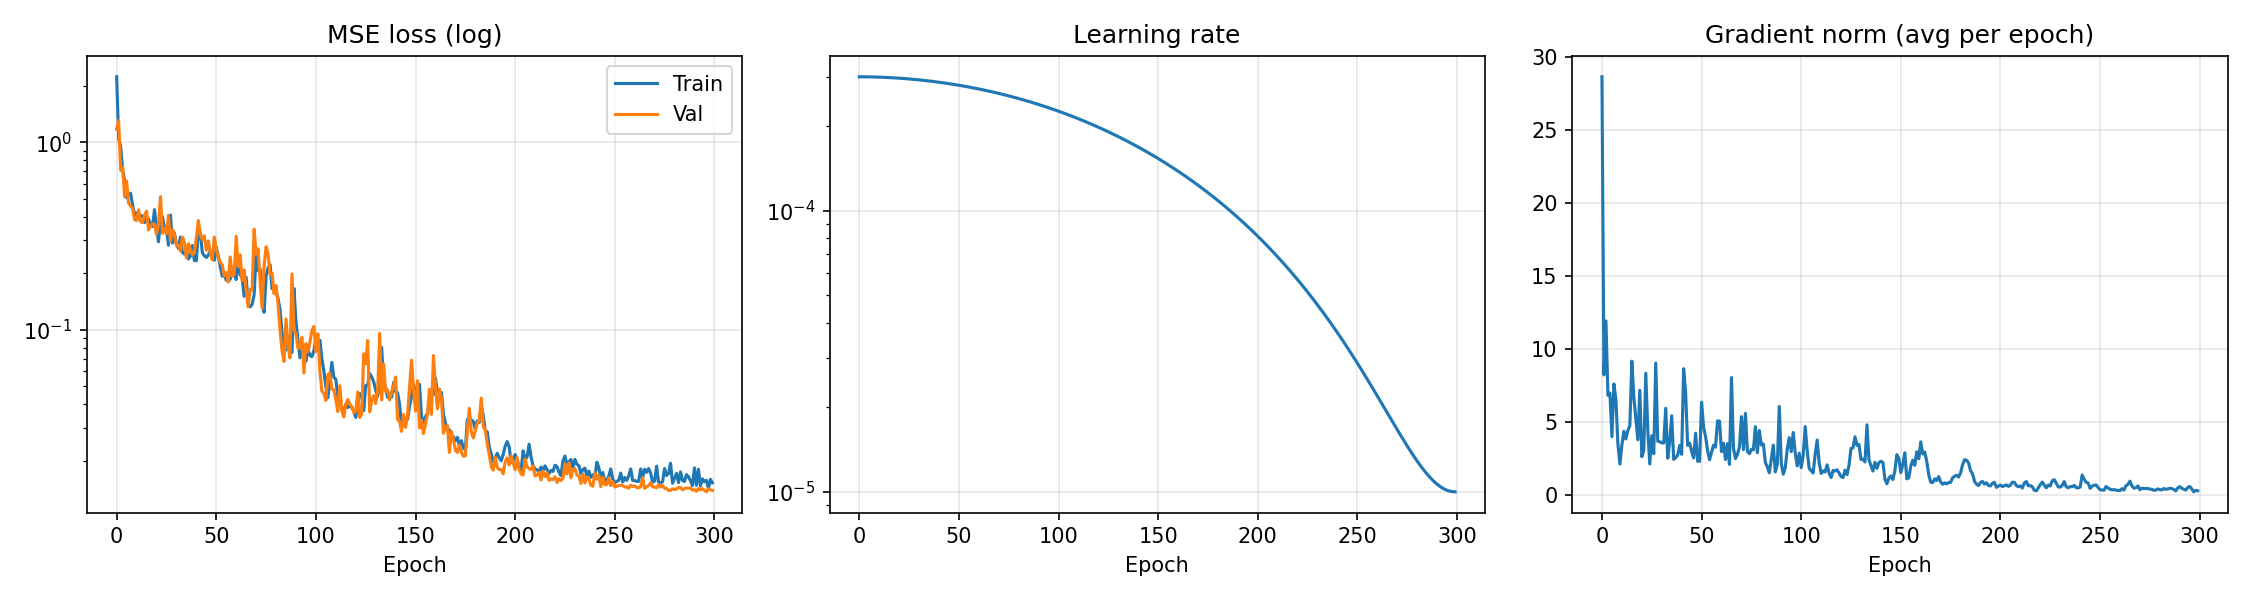
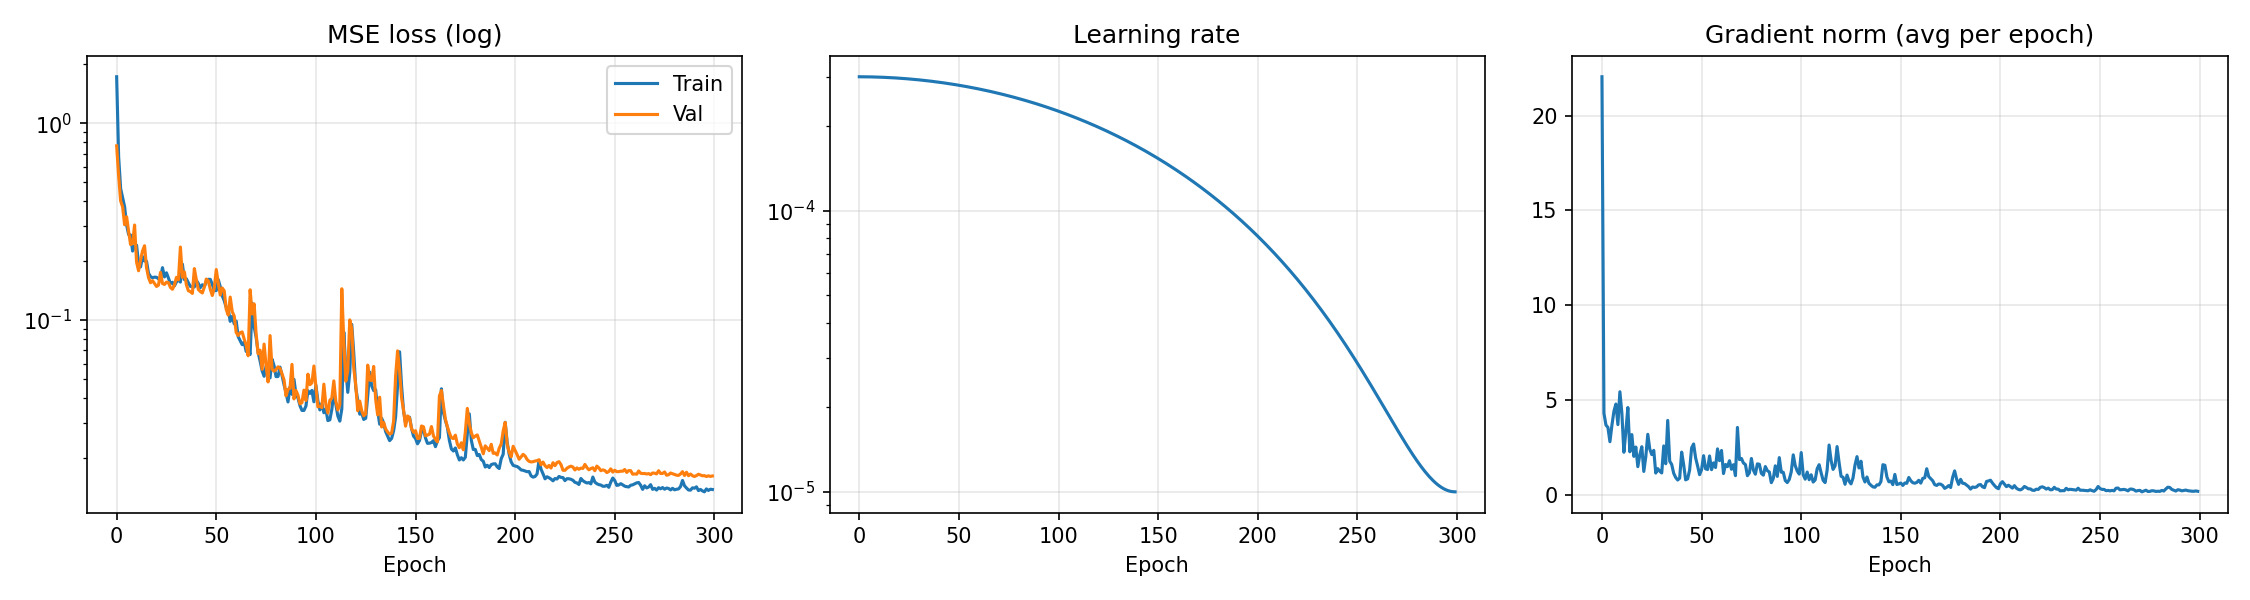
bigger parts, static origin

diff --git a/world_model/visualize.py b/world_model/visualize.py
@@ -21,6 +21,7 @@ import random
 import matplotlib.pyplot as plt
 import matplotlib.animation as animation
 import matplotlib.patches as mpatches
+import math
 import numpy as np
 import torch
 from torch.utils.data import random_split
@@ -34,7 +35,7 @@ from .train import DEFAULTS, get_device
 
 
 # ── cinématique directe ────────────────────────────────────────────────────────
-L1, L2 = 1.0, 1.0
+L1, L2 = math.sqrt(2), math.sqrt(2)   # portée totale 2√2, atteint le coin (2,2)
 
 def fk(q: np.ndarray) -> tuple[np.ndarray, np.ndarray, np.ndarray]:
     base  = np.zeros((len(q), 2))
@@ -85,6 +86,27 @@ def _get_split(save_dir, split, device):
     train_ds, val_ds = random_split(full_ds, [n_train, n_val], generator=g)
     subset  = {"val": val_ds, "train": train_ds}.get(split, full_ds)
     return model, norm, H, full_ds, subset
+
+
+def _compute_loss_distribution(model, norm, H, full_ds, subset, device):
+    """Calcule la MSE loss (sur q) pour chaque épisode du subset.
+    Retourne un tableau numpy de shape (n_ep,)."""
+    losses = []
+    n_ep = len(subset)
+    print(f"Calcul de la distribution des losses sur {n_ep} épisodes...")
+    for ep_idx in range(n_ep):
+        try:
+            pred, tgt, _, seq_len, q_col, _ = _run_inference(
+                model, norm, H, full_ds, subset, ep_idx, device)
+            mse = float(np.mean((pred[:seq_len, q_col:q_col+2]
+                                 - tgt[:seq_len, q_col:q_col+2]) ** 2))
+        except Exception:
+            mse = float("nan")
+        losses.append(mse)
+        if (ep_idx + 1) % max(1, n_ep // 10) == 0:
+            print(f"  {ep_idx + 1}/{n_ep}")
+    print("Distribution calculée.")
+    return np.array(losses)
 
 
 def _run_inference(model, norm, H, full_ds, subset, ep_idx, device):
@@ -143,6 +165,9 @@ def browse(save_dir="world_model/checkpoints", split="val", step=1):
     model, norm, H, full_ds, subset = _get_split(save_dir, split, device)
     n_ep   = len(subset)
 
+    # ── calcul distribution des losses ───────────────────────────────────────
+    all_losses = _compute_loss_distribution(model, norm, H, full_ds, subset, device)
+
     _UNITS = {"q_real":"rad","q_des":"rad","q_sensed":"rad",
               "dq_real":"rad/s","dq_des":"rad/s","dq_sensed":"rad/s",
               "tau":"N·m","is_cutting":"prob"}
@@ -154,18 +179,44 @@ def browse(save_dir="world_model/checkpoints", split="val", step=1):
              elbow_t=None, elbow_p=None, tip_t=None, tip_p=None)
 
     # ── figure & axes ─────────────────────────────────────────────────────────
-    fig = plt.figure(figsize=(16, 10))
-    gs  = fig.add_gridspec(4, 2, left=0.05, right=0.97,
-                           top=0.92, bottom=0.23, hspace=0.55, wspace=0.30)
+    fig = plt.figure(figsize=(18, 10))
+    gs  = fig.add_gridspec(4, 3, left=0.05, right=0.97,
+                           top=0.92, bottom=0.23, hspace=0.55, wspace=0.35)
     ax_arm      = fig.add_subplot(gs[:, 0])
     metric_axes = [fig.add_subplot(gs[i, 1]) for i in range(4)]
+    ax_dist     = fig.add_subplot(gs[:2, 2])   # histogramme distribution (moitié haute)
+    ax_rank     = fig.add_subplot(gs[2:, 2])   # rang / percentile (moitié basse)
+
+    # ── histogramme de distribution des losses ────────────────────────────────
+    valid_losses = all_losses[~np.isnan(all_losses)]
+    ax_dist.hist(valid_losses, bins=40, color="steelblue", alpha=0.75, edgecolor="white", lw=0.4)
+    ax_dist.set_title("Distribution des losses (MSE q)", fontsize=9)
+    ax_dist.set_xlabel("MSE", fontsize=8)
+    ax_dist.set_ylabel("# épisodes", fontsize=8)
+    ax_dist.grid(True, alpha=0.25)
+    loss_marker_v  = ax_dist.axvline(np.nan, color="tomato", lw=2, ls="--", label="pièce courante")
+    loss_marker_tx = ax_dist.text(0.98, 0.95, "", transform=ax_dist.transAxes,
+                                  fontsize=8, ha="right", va="top",
+                                  color="tomato", fontweight="bold")
+    ax_dist.legend(fontsize=7, loc="upper left")
+
+    # ── graphe rang trié (toutes les losses) ──────────────────────────────────
+    sorted_idx  = np.argsort(valid_losses)
+    ax_rank.plot(np.arange(len(valid_losses)), valid_losses[sorted_idx],
+                 color="steelblue", lw=1.2)
+    ax_rank.set_title("Losses triées", fontsize=9)
+    ax_rank.set_xlabel("Rang", fontsize=8)
+    ax_rank.set_ylabel("MSE", fontsize=8)
+    ax_rank.grid(True, alpha=0.25)
+    rank_marker_h = ax_rank.axhline(np.nan, color="tomato", lw=1.5, ls="--")
+    rank_marker_pt, = ax_rank.plot([], [], "o", color="tomato", ms=7, zorder=5)
 
     # Axes widgets
-    ax_sl_ep  = fig.add_axes([0.07, 0.13, 0.60, 0.03])
-    ax_sl_t   = fig.add_axes([0.07, 0.07, 0.60, 0.03])
-    ax_btn_pp = fig.add_axes([0.70, 0.06, 0.07, 0.07])
-    ax_btn_prv= fig.add_axes([0.79, 0.06, 0.07, 0.07])
-    ax_btn_nxt= fig.add_axes([0.88, 0.06, 0.07, 0.07])
+    ax_sl_ep  = fig.add_axes([0.05, 0.13, 0.60, 0.03])
+    ax_sl_t   = fig.add_axes([0.05, 0.07, 0.60, 0.03])
+    ax_btn_pp = fig.add_axes([0.68, 0.06, 0.07, 0.07])
+    ax_btn_prv= fig.add_axes([0.77, 0.06, 0.07, 0.07])
+    ax_btn_nxt= fig.add_axes([0.86, 0.06, 0.07, 0.07])
 
     sl_ep   = mwidgets.Slider(ax_sl_ep,  "Pièce", 0, max(1, n_ep - 1),
                               valinit=0, valstep=1)
@@ -178,9 +229,9 @@ def browse(save_dir="world_model/checkpoints", split="val", step=1):
     title_text = fig.suptitle("", fontsize=11)
 
     # ── bras : artists statiques & animés ─────────────────────────────────────
-    arm_lim = L1 + L2 + 0.15
-    ax_arm.set_xlim(-arm_lim, arm_lim)
-    ax_arm.set_ylim(-arm_lim, arm_lim)
+    arm_lim = L1 + L2 + 0.2
+    ax_arm.set_xlim(-0.3, arm_lim)
+    ax_arm.set_ylim(-0.3, arm_lim)
     ax_arm.set_aspect("equal")
     ax_arm.set_xlabel("x [m]"); ax_arm.set_ylabel("y [m]")
     ax_arm.axhline(0, color="gray", lw=0.5)
@@ -308,6 +359,18 @@ def browse(save_dir="world_model/checkpoints", split="val", step=1):
             f"World model — [{split}]  pièce {ep} / {n_ep - 1}  "
             f"({S['seq_len']} pas,  shape → trajectoire complète)")
 
+        # ── mise à jour distribution ──────────────────────────────────────────
+        ep_loss = all_losses[ep]
+        loss_marker_v.set_xdata([ep_loss, ep_loss])
+        valid_mask = ~np.isnan(all_losses)
+        percentile = float(np.mean(all_losses[valid_mask] <= ep_loss) * 100)
+        rank_in_sorted = int(np.sum(valid_losses <= ep_loss))
+        loss_marker_tx.set_text(
+            f"MSE={ep_loss:.4f}\nPercentile {percentile:.0f}%")
+        rank_marker_h.set_ydata([ep_loss, ep_loss])
+        rank_marker_pt.set_data([rank_in_sorted], [ep_loss])
+        ax_dist.figure.canvas.draw_idle()
+
         _refresh_static()
         _rebuild_metrics()
         _draw_frame(0)
@@ -389,8 +452,8 @@ def animate(episode_idx=None, save_dir="world_model/checkpoints",
 
     t_axis = np.arange(seq_len) * 0.01
 
-    arm_lim = L1 + L2 + 0.15
-    ax_arm.set_xlim(-arm_lim, arm_lim); ax_arm.set_ylim(-arm_lim, arm_lim)
+    arm_lim = L1 + L2 + 0.2
+    ax_arm.set_xlim(-0.3, arm_lim); ax_arm.set_ylim(-0.3, arm_lim)
     ax_arm.set_aspect("equal")
     ax_arm.set_title("Bras 2-DOF")
     ax_arm.set_xlabel("x [m]"); ax_arm.set_ylabel("y [m]")

diff --git a/piece.py b/piece.py
@@ -3,8 +3,12 @@ import random
 import math
 import json
 
-# Portée max du bras (L1+L2=2.0) moins marge de sécurité
-_MAX_REACH = 1.85
+# Portée max du bras (L1+L2 = 2√2 ≈ 2.83)
+_MAX_REACH = 2 * math.sqrt(2) - 0.05   # marge de sécurité
+
+# Carré de travail : les pièces doivent rester dans [0.1, 1.9]²
+_XMIN, _XMAX = 0.1, 1.9
+_YMIN, _YMAX = 0.1, 1.9
 
 
 # ── utilitaires géométriques ──────────────────────────────────────────────────
@@ -15,11 +19,20 @@ def _rotate(pts, angle):
 
 
 def _clamp_to_workspace(pts, bx, by):
-    """Réduit les coords locales si un coin dépasse _MAX_REACH depuis l'origine."""
-    worst = max(math.hypot(bx + x, by + y) for x, y in pts)
-    if worst > _MAX_REACH:
-        f = (_MAX_REACH - math.hypot(bx, by)) / (worst - math.hypot(bx, by))
-        f = max(0.05, min(f, 1.0))
+    """Réduit les coords locales si un sommet sort du carré [_XMIN,_XMAX]x[_YMIN,_YMAX]."""
+    worlds = [(bx + x, by + y) for x, y in pts]
+    # dépassement dans chaque direction
+    ox = max(0, max(wx - _XMAX for wx, _ in worlds),
+                  max(_XMIN - wx for wx, _ in worlds))
+    oy = max(0, max(wy - _YMAX for _, wy in worlds),
+                  max(_YMIN - wy for _, wy in worlds))
+    if ox > 0 or oy > 0:
+        # facteur de réduction conservatif
+        ext_x = max(abs(x) for x, y in pts) or 1e-9
+        ext_y = max(abs(y) for x, y in pts) or 1e-9
+        fx = max(0.05, (ext_x - ox) / ext_x) if ox > 0 else 1.0
+        fy = max(0.05, (ext_y - oy) / ext_y) if oy > 0 else 1.0
+        f  = min(fx, fy)
         pts = [(x * f, y * f) for x, y in pts]
     return pts
 
@@ -322,16 +335,16 @@ def generate_shape_database(num_shapes=100):
     db = []
 
     for _ in range(num_shapes):
-        # ── position du centre ───────────────────────────────────────────────
-        # Espace de travail élargi : x∈[0.25, 1.60], y∈[−0.70, 0.45]
-        for _ in range(20):   # ré-essai si trop loin de l'origine
-            base_x = random.uniform(0.25, 1.60)
-            base_y = random.uniform(-0.70, 0.45)
-            if math.hypot(base_x, base_y) < 1.60:
+        # ── position du centre ─────────────────────────────────────────────────
+        # Centre dans [0.5, 1.5]² pour laisser de la marge aux bords du carré
+        for _ in range(20):
+            base_x = random.uniform(0.5, 1.5)
+            base_y = random.uniform(0.5, 1.5)
+            if math.hypot(base_x, base_y) < _MAX_REACH:
                 break
 
-        # ── scale de base ────────────────────────────────────────────────────
-        scale = random.uniform(0.15, 0.90)
+        # ── scale de base (pièces larges ~50cm–1m, clampées dans [0.1,1.9]²) ──────
+        scale = random.uniform(0.50, 0.80)
 
         # ── choix et génération de la forme ──────────────────────────────────
         shape_type = random.choice(_SHAPE_NAMES)
@@ -346,26 +359,29 @@ def generate_shape_database(num_shapes=100):
 
         # Cisaillement
         if random.random() < 0.25:
-            shear = random.uniform(-0.30, 0.30)
+            shear = random.uniform(-0.15, 0.15)
             pts = [(x + shear * y, y) for x, y in pts]
 
         # Bruit sommet (imperfections de conception)
-        noise = random.uniform(0.0, 0.12) * scale
+        noise = random.uniform(0.0, 0.08) * scale
         pts = [(x + random.uniform(-noise, noise),
                 y + random.uniform(-noise, noise)) for x, y in pts]
 
         # ── rotation aléatoire ────────────────────────────────────────────────
         pts = _rotate(pts, random.uniform(0, 2*math.pi))
 
-        # ── contrainte workspace ──────────────────────────────────────────────
+        # ── contrainte workspace (carré [0.1, 1.9]²) ───────────────────────────
         pts = _clamp_to_workspace(pts, base_x, base_y)
 
-        # ── hauteur d'approche dynamique ──────────────────────────────────────
-        world_ys = [base_y + y for _, y in pts]
-        approach_y = max(max(world_ys) + 0.25, 0.70)
 
-        # ── construction du chemin ────────────────────────────────────────────
-        path = [(0.4, approach_y, False), (base_x, approach_y, False)]
+        # Home : position hors singularité — (0.1, 0.1) est le coin bas-gauche du workspace
+        # (0,0) exact est une singularité IK : l'IK n'y est pas continue, causant
+        # une discontinuité de q1 au premier mouvement.
+        _HOME = (0.1, 0.1)
+        path = [
+            (_HOME[0], _HOME[1], False),  # home (bras replié, non-singulier)
+            (base_x,   _YMIN,   False),   # approche colonne (bas du carré)
+        ]
 
         for i, (lx, ly) in enumerate(pts):
             path.append((base_x + lx, base_y + ly, i > 0))
@@ -374,8 +390,8 @@ def generate_shape_database(num_shapes=100):
         lx0, ly0 = pts[0]
         path.append((base_x + lx0, base_y + ly0, True))
 
-        path.append((base_x, approach_y, False))
-        path.append((0.4,    approach_y, False))
+        path.append((base_x,   _YMIN,   False))  # recul vers le bas
+        path.append((_HOME[0], _HOME[1], False))  # retour home
 
         db.append(path)
 

diff --git a/config.py b/config.py
@@ -2,7 +2,8 @@
 
 # --- PARAMÈTRES PHYSIQUES IDÉAUX ---
 m1, m2 = 2.0, 1.5
-l1, l2 = 1.0, 1.0
+import math as _math
+l1, l2 = _math.sqrt(2), _math.sqrt(2)   # portée totale = 2√2, atteint le coin (2,2)
 r1, r2 = 0.5, 0.5
 I1, I2 = 0.1, 0.08
 g = 9.81